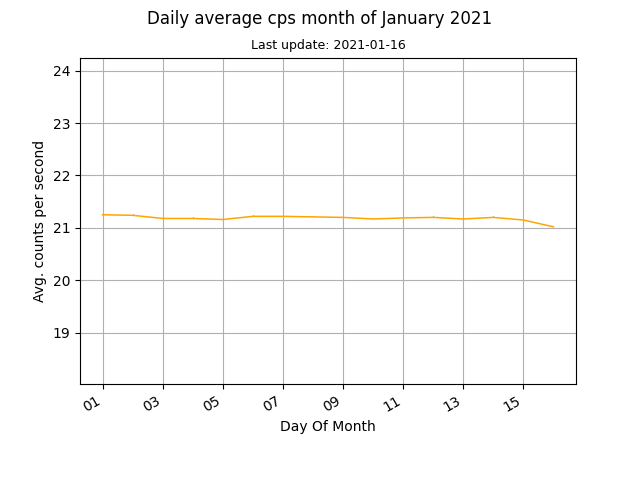
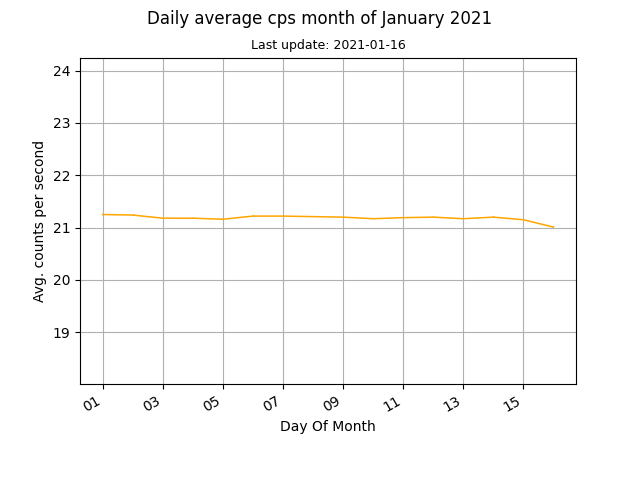
auto data update

diff --git a/docs/index.html b/docs/index.html
@@ -45,8 +45,8 @@
 	
 	<br>
 	
-	<p>Current counts per second (cps): 21.04</p>
-	<p>Last update: 2021-01-16, 16:56</p>
+	<p>Current counts per second (cps): 20.78</p>
+	<p>Last update: 2021-01-16, 17:11</p>
 
 	<p><a href="images/monthly.png"><img src="images/monthly.png" alt="Mothly avg cps data"></a><a href="images/daily.png"><img src="images/daily.png" alt="Daily avg cps data"></a></p>
 	
